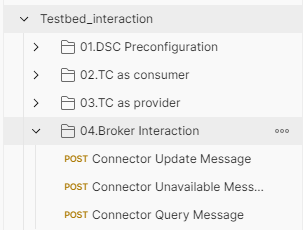
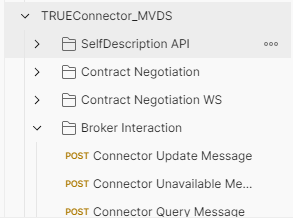
updated pictures and readme

diff --git a/README.md b/README.md
@@ -300,6 +300,12 @@ This will be used when external connector makes https request towards ecc-provid
 
 ## Testbed interaction
 
+For interaction with the Testbed you can use the provided [Postman collection](TRUEConnector_MVDS.postman_collection.json)
+
+The endpoints can be configured in the **Variables** section of the collection ![Variables](pictures/postman_variables.png "Postman variables")
+
+The **Forward-To** refers to the provider connector to whom the message should be sent.
+
 ### TRUE Connector as consumer
 
 To perform contract negotiation with another connector and get an artifact. For this purpose, you can use ![TC as consumer](pictures/TC_Consumer.png "TC as consumer")
